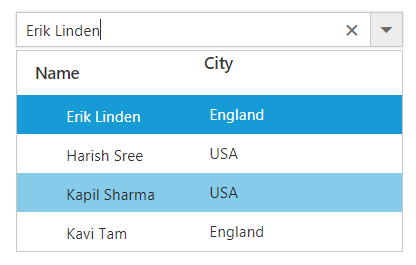
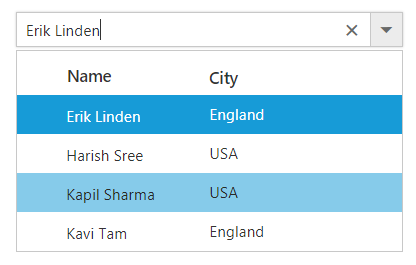
I have addressed the comments in Combobox UG

Changed region(s): [[0.0625, 0.2415, 0.2812, 0.3321], [0.4688, 0.2113, 0.5938, 0.3321]]

diff --git a/js/ComboBox/Template.md b/js/ComboBox/Template.md
@@ -107,6 +107,8 @@ $(function () {
 		
 {% endhighlight %}
 
+![](Templates_images/Templates_image6.png)
+
 ## Header template
 
 The header element is shown statically at the top of the popup list items within the
@@ -296,6 +298,8 @@ In the following sample, popup list content displays the notification of no data
 
 {% endhighlight %}
 
+![](Templates_images/Templates_image4.png)
+
 ## Action failure template
 
 There is also an option to custom design the popup list content when the data fetch request
@@ -352,3 +356,5 @@ In the following sample, when the data fetch request fails, the ComboBox display
      </style>
 
 {% endhighlight %}
+
+![](Templates_images/Templates_image5.png)

diff --git a/js/ComboBox/Getting-Started.md b/js/ComboBox/Getting-Started.md
@@ -13,7 +13,6 @@ keywords: ComboBox, ComboBox, Populating data
 The external script dependencies of the ComboBox widget are,
 
 * [jQuery 1.7.1](http://jquery.com/) and later versions.
-* [jQuery.easing](http://gsgd.co.uk/sandbox/jquery/easing/) - to support the animation effects.
 
 And the internal script dependencies of the ComboBox widget are:
 
@@ -37,6 +36,10 @@ And the internal script dependencies of the ComboBox widget are:
 	<tr>
 		<td>ej.scroller.min.js</td>
 		<td>Should be referred when using scrolling in ComboBox.</td>
+	</tr>
+	<tr>
+		<td>ej.globalize.min.js</td>
+		<td>processing specific source-side actions globally.</td>
 	</tr>
 </table>
 

diff --git a/js/ComboBox/grouping.md b/js/ComboBox/grouping.md
@@ -82,6 +82,8 @@ $(function () {
 
 {% endhighlight %}
 
+![](RenderingMode_images/RenderingMode_img1.jpeg)
+
 ## Customization
 
 The grouping header is also provided with customization option. This allows custom designing using the `groupTemplate` property for both inline and fixed headers as referred here:
